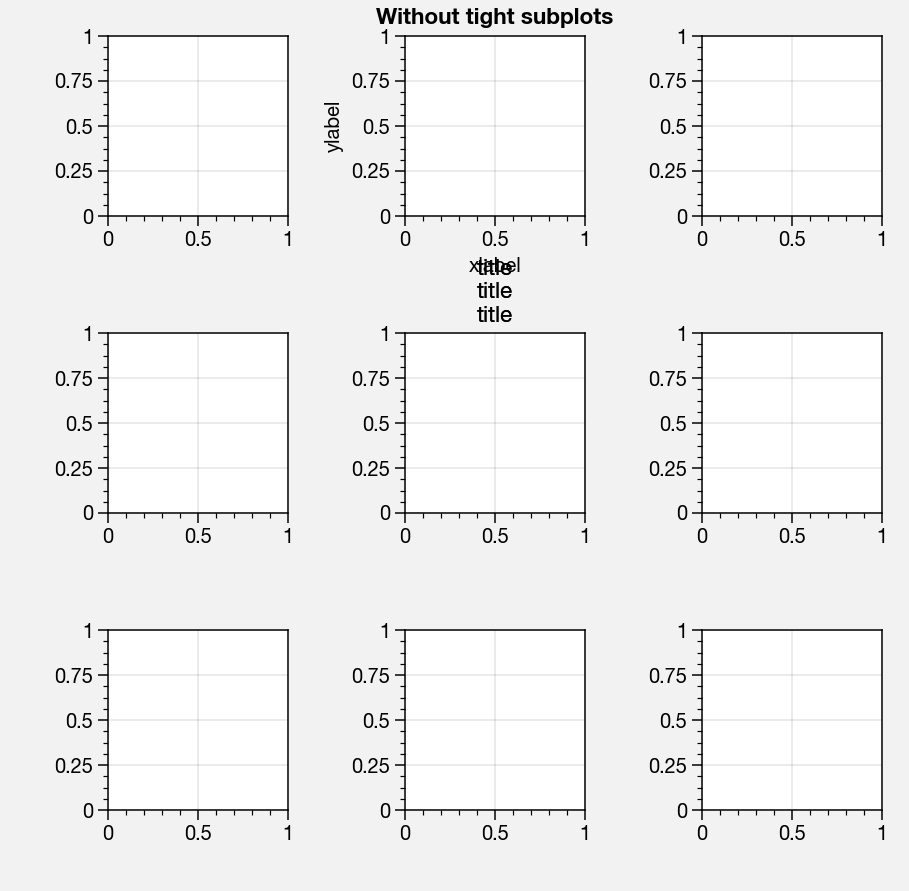
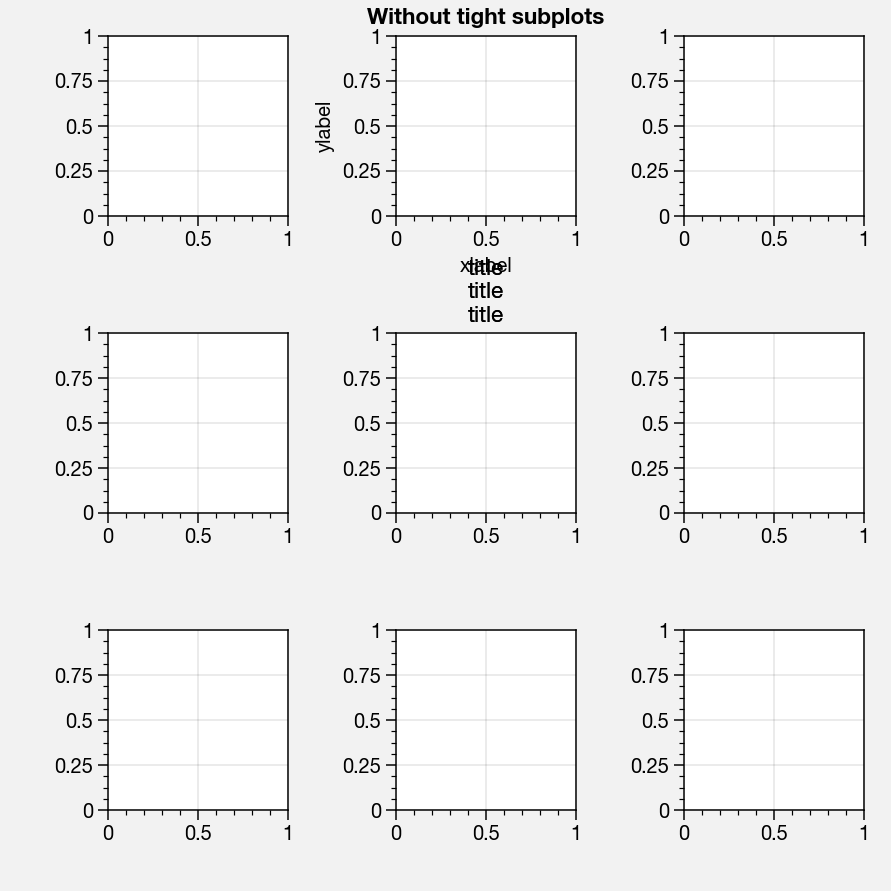
Minor

diff --git a/proplot/subplots.py b/proplot/subplots.py
@@ -1810,9 +1810,14 @@ def subplots(array=None, ncols=1, nrows=1,
     # NOTE: Ratios are scaled to take physical units in _subplots_kwargs, so
     # user can manually provide hspace and wspace in physical units.
     hspace = np.atleast_1d(units(_default(hspace,
-        rc['subplot.innerspace'] if sharex==3 else rc['subplot.titlespace'] + rc['subplot.xlabspace'])))
-    wspace = np.atleast_1d(units(_default(hspace,
-        rc['subplot.innerspace'] if sharex==3 else rc['subplot.ylabspace'])))
+        rc['subplot.titlespace'] + rc['subplot.innerspace'] if sharex==3
+        else rc['subplot.xlabspace'] if sharex in (1,2) # space for tick labels and title
+        else rc['subplot.titlespace'] + rc['subplot.xlabspace'])))
+    wspace = np.atleast_1d(units(_default(wspace,
+        rc['subplot.innerspace'] if sharey==3
+        else rc['subplot.ylabspace'] - rc['subplot.titlespace'] if sharey in (1,2) # space for tick labels only
+        else rc['subplot.ylabspace']
+        )))
     wratios = np.atleast_1d(_default(width_ratios, wratios, 1))
     hratios = np.atleast_1d(_default(height_ratios, hratios, 1))
     if len(wspace)==1:

diff --git a/docs/showcase.rst b/docs/showcase.rst
@@ -219,12 +219,12 @@ labelling; a warning will be raised in these instances). Even when
 
 .. image:: showcase/showcase_15_0.png
    :width: 355px
-   :height: 346px
+   :height: 382px
 
 
 
 .. image:: showcase/showcase_15_1.png
-   :width: 454px
+   :width: 445px
    :height: 445px
 
 
